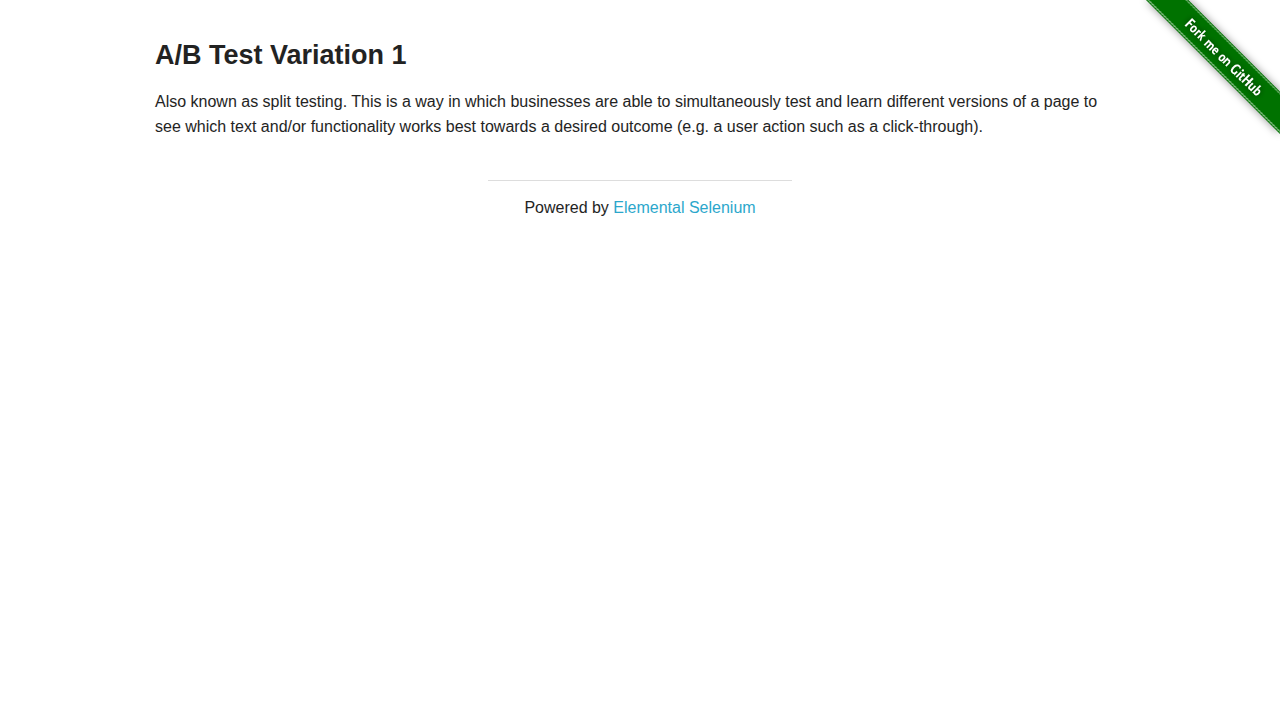
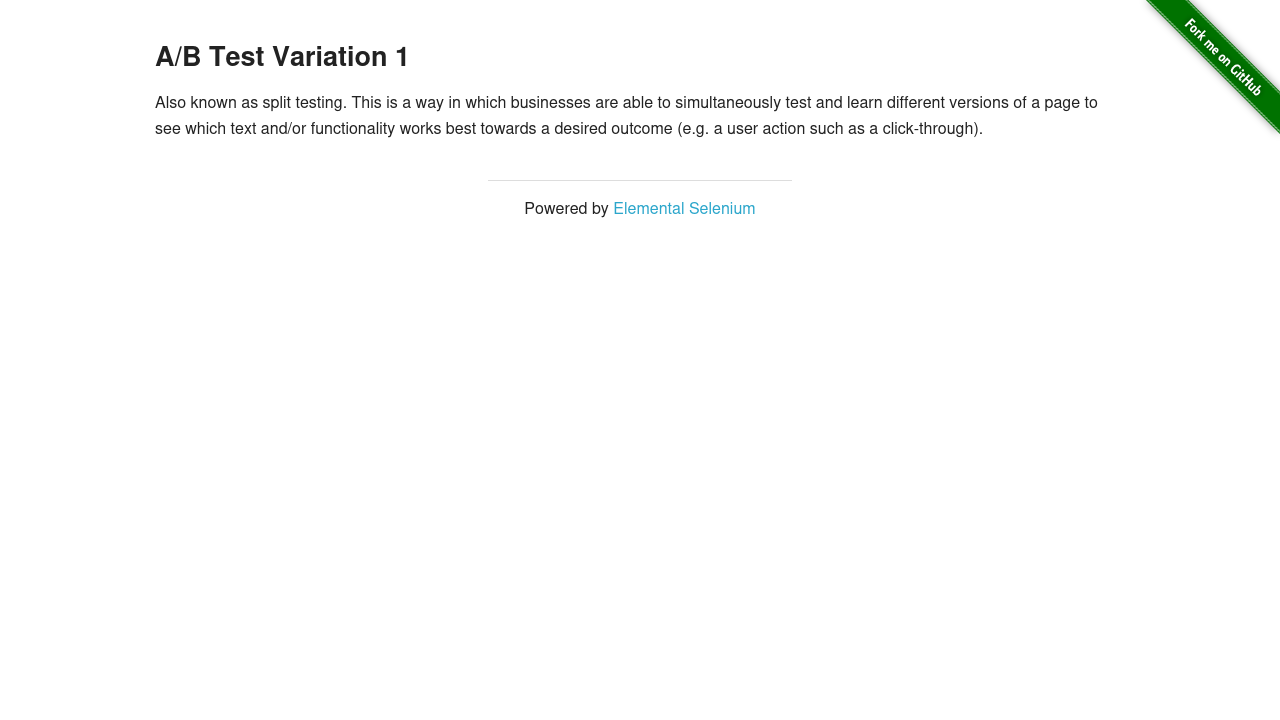
added allure report

Changed region(s): [[0.125, 0.1222, 0.875, 0.1833], [0.125, 0.0611, 0.3438, 0.0917], [0.4062, 0.275, 0.5938, 0.3056]]

diff --git a/README.md b/README.md
@@ -14,5 +14,5 @@ Learning locators and manipulating different elements in a web application
     });
     ```
   - Convert the test results into an HTML report. This can be done by one of two commands:
-    1. `npx allure generate` processes the test results and saves an HTML report into the `allure-report` directory. To view the report, use the `npx allure open` command.
+    1. `npx allure generate` processes the test results and saves an HTML report into the **_allure-report_** directory. To view the report, use the `npx allure open` command.
     2. `npx allure serve` creates the same report as `npx allure generate`, then automatically opens the main page of the report in a web browser.
